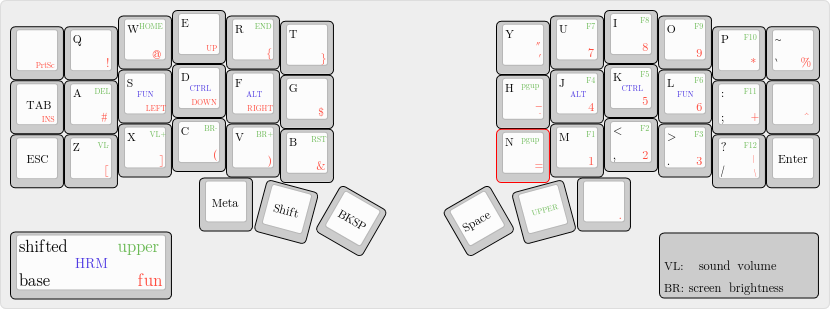
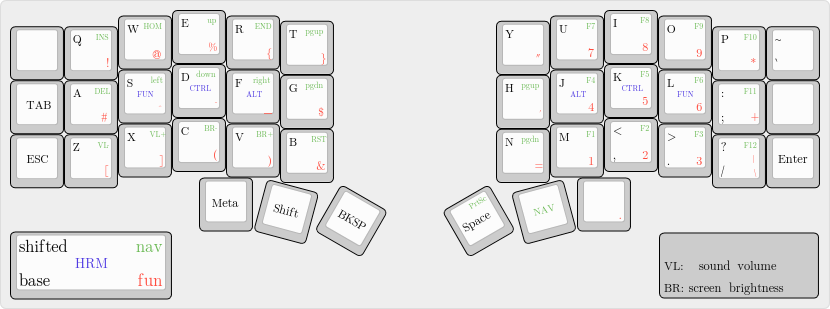
Re-arrange `-` and `"`

diff --git a/keymap.c b/keymap.c
@@ -43,8 +43,8 @@ const uint16_t PROGMEM keymaps[][MATRIX_ROWS][MATRIX_COLS] = {
 
   [_FL] = LAYOUT_moonlander(
     xxxxxxxx,       xxxxxxxx,       xxxxxxxx,       xxxxxxxx,       xxxxxxxx,       xxxxxxxx,       xxxxxxxx,                xxxxxxxx,       xxxxxxxx,       xxxxxxxx,       xxxxxxxx,       xxxxxxxx,       xxxxxxxx,       xxxxxxxx,
-    KC_PSCR,        KC_EXLM,        KC_AT,          KC_UP,          KC_LCBR,        KC_RCBR,        xxxxxxxx,                xxxxxxxx,       KC_QUOTE,       KC_7,           KC_8,           KC_9,           KC_ASTR,        KC_PERC,
-    KC_INSERT,      KC_HASH,        KC_LEFT,        KC_DOWN,        KC_RIGHT,       KC_DLR,         xxxxxxxx,                xxxxxxxx,       KC_MINUS,       KC_4,           KC_5,           KC_6,           KC_KP_PLUS,     KC_CIRC,
+    xxxxxxxx,       KC_EXLM,        KC_AT,          KC_PERC,        KC_LCBR,        KC_RCBR,        xxxxxxxx,                xxxxxxxx,       LSFT(KC_QUOTE), KC_7,           KC_8,           KC_9,           KC_ASTR,        xxxxxxxx,
+    xxxxxxxx,       KC_HASH,        KC_CIRC,        KC_MINUS,       LSFT(KC_MINUS), KC_DLR,         xxxxxxxx,                xxxxxxxx,       KC_QUOTE,       KC_4,           KC_5,           KC_6,           KC_KP_PLUS,     xxxxxxxx,
     _______,        KC_LBRC,        KC_RBRC,        KC_LPRN,        KC_RPRN,        KC_AMPR,                                                 KC_EQUAL,       KC_1,           KC_2,           KC_3,           KC_BACKSLASH,   xxxxxxxx,
     xxxxxxxx,       xxxxxxxx,       xxxxxxxx,       _______,        _______,                        xxxxxxxx,                xxxxxxxx,                       KC_0,           KC_DOT,         xxxxxxxx,       xxxxxxxx,       xxxxxxxx,
                                                                                     _______,            KC_NO,KC_NO,   KC_NO,KC_NO,          _______
@@ -52,11 +52,11 @@ const uint16_t PROGMEM keymaps[][MATRIX_ROWS][MATRIX_COLS] = {
 
   [_CL] = LAYOUT_moonlander(
     xxxxxxxx,       xxxxxxxx,       xxxxxxxx,       xxxxxxxx,       xxxxxxxx,       xxxxxxxx,       xxxxxxxx,                xxxxxxxx,       xxxxxxxx,       xxxxxxxx,       xxxxxxxx,       xxxxxxxx,       xxxxxxxx,       xxxxxxxx,
-    _______,        xxxxxxxx,       KC_HOME,        KC_UP,          KC_END,         KC_PGUP,        xxxxxxxx,                xxxxxxxx,       xxxxxxxx,       KC_F7,          KC_F8,          KC_F9,          KC_F10,         xxxxxxxx,
+    _______,        KC_INSERT,      KC_HOME,        KC_UP,          KC_END,         KC_PGUP,        xxxxxxxx,                xxxxxxxx,       xxxxxxxx,       KC_F7,          KC_F8,          KC_F9,          KC_F10,         xxxxxxxx,
     _______,        KC_DELETE,      KC_LEFT,        KC_DOWN,        KC_RIGHT,       KC_PGDN,        xxxxxxxx,                xxxxxxxx,       KC_PGUP,        KC_F4,          KC_F5,          KC_F6,          KC_F11,         xxxxxxxx,
     _______,        KC_VOL_DN,      KC_VOL_UP,      KC_BR_DOWN,     KC_BR_UP,       QK_BOOT,                                                 KC_PGDN,        KC_F1,          KC_F2,          KC_F3,          KC_F12,         KC_ENTER,
     xxxxxxxx,       xxxxxxxx,       xxxxxxxx,       _______,        _______,                        xxxxxxxx,                xxxxxxxx,                       TO(_BL),        xxxxxxxx,       xxxxxxxx,       xxxxxxxx,       xxxxxxxx,
-                                                                                    _______,            KC_NO,KC_NO,   KC_NO,KC_NO,          _______
+                                                                                    _______,            KC_NO,KC_NO,   KC_NO,KC_NO,          KC_PSCR
   ),
 
   [_ML] = LAYOUT_moonlander(
